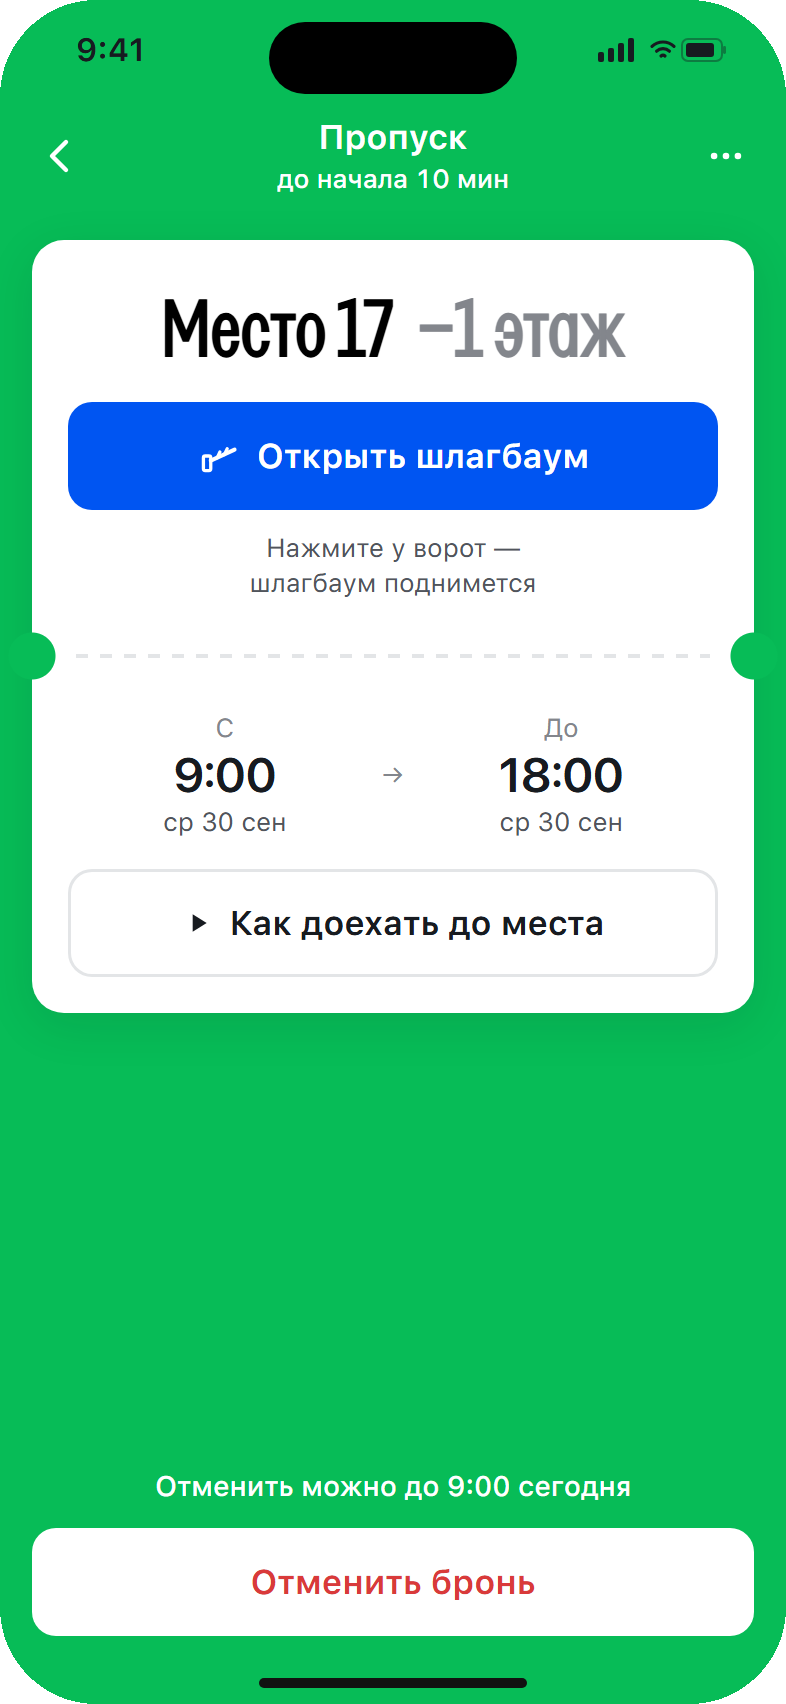
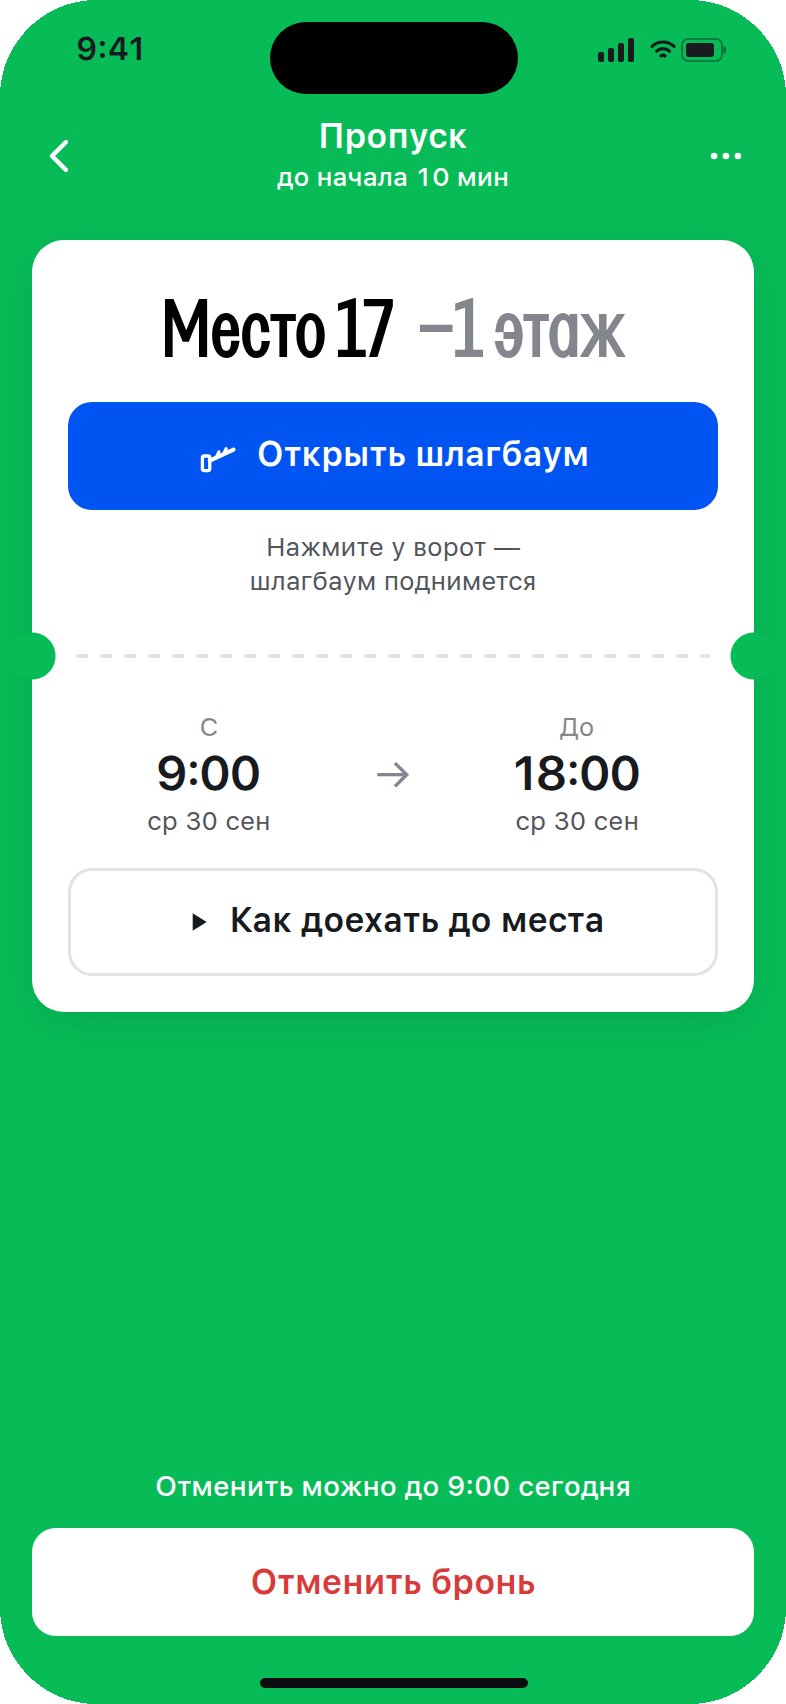
Refine ticket time display and arrow styling (#1)
* fix(ticket): выровнять блок времени в пропуске и обновить кадры кейса

Правило .tk-times span перебивало .tk-arrow: стрелка была 13px вместо 20.
Подписи «С»/«До» теперь по центру над временем. Кадры пропуска на
странице кейса пересняты с прототипа.

Claude-Session: https://claude.ai/code/session_0139vpd9aW6UCkXTQQZg3tMX

* feat(case): черновик и финал — одним кадром со шторкой-слайдером

Три пары «Черновик → финал» на странице кейса теперь сравниваются
в одном телефоне: ручку тянут мышью или пальцем, тап по кадру
переносит её, стрелки на клавиатуре двигают по 5%. Ручка — как
у сравнения тёмной и светлой темы выше на странице.

Claude-Session: https://claude.ai/code/session_0139vpd9aW6UCkXTQQZg3tMX

---------

diff --git a/public/research/index.html b/public/research/index.html
@@ -131,13 +131,20 @@
   /* Черновик → финал: пары кадров на тёмной подложке, как слайды */
   .pairs { max-width: var(--wide); margin: 28px auto 0; padding: 0 20px; display: grid; gap: 48px; }
   .pair { margin: 0; }
-  .pair-shots { display: grid; grid-template-columns: 1fr 1fr; gap: 20px; padding: 28px 28px 20px; background: var(--band); border-radius: 8px; }
-  .pair-shot { display: flex; flex-direction: column; align-items: center; gap: 12px; }
-  .pair-shot img { width: 100%; max-width: 300px; height: auto; }
-  .pair-shot span { font-size: 13.5px; color: rgba(255, 255, 255, 0.62); }
+  /* Сравнение: оба кадра в одном телефоне, слева от ручки черновик, справа финал */
+  .pair-shots { display: flex; flex-direction: column; align-items: center; gap: 12px; padding: 28px 28px 20px; background: var(--band); border-radius: 8px; }
+  .pcmp { --x: 50%; position: relative; width: 100%; max-width: 300px; aspect-ratio: 723 / 1568; touch-action: pan-y; user-select: none; -webkit-user-select: none; cursor: ew-resize; }
+  .pcmp img { position: absolute; inset: 0; width: 100%; height: 100%; pointer-events: none; -webkit-user-drag: none; }
+  .pcmp-was { clip-path: inset(0 calc(100% - var(--x)) 0 0); }
+  .pcmp-bar { position: absolute; top: 0; bottom: 0; left: var(--x); width: 2px; margin-left: -1px; background: #fff; box-shadow: 0 0 0 1px rgba(0, 0, 0, 0.12); pointer-events: none; }
+  .pcmp-knob { position: absolute; top: 50%; left: var(--x); width: 42px; height: 42px; margin: -21px 0 0 -21px; border: 0; border-radius: 50%; background: #fff; color: var(--text); box-shadow: 0 4px 16px rgba(0, 0, 0, 0.3); display: grid; place-items: center; cursor: ew-resize; padding: 0; font: 600 16px/1 inherit; letter-spacing: 2px; }
+  .pcmp-knob:focus-visible { outline: 2px solid var(--volt); outline-offset: 3px; }
+  .pcmp-labels { width: 100%; max-width: 300px; display: flex; justify-content: space-between; font-size: 13.5px; color: rgba(255, 255, 255, 0.62); }
+  .pcmp-labels span { transition: color .2s; }
+  .pcmp-labels span.on { color: #fff; }
   .pair figcaption { max-width: var(--col); margin: 20px auto 0; }
   .pair h4 { font-size: 16px; line-height: 1.35; font-weight: 600; margin: 0 0 8px; }
-  @media (max-width: 720px) { .pairs { padding: 0 12px; gap: 36px; } .pair-shots { gap: 10px; padding: 16px 12px 12px; } .pair figcaption { padding: 0 8px; } }
+  @media (max-width: 720px) { .pairs { padding: 0 12px; gap: 36px; } .pair-shots { padding: 16px 12px 12px; } .pair figcaption { padding: 0 8px; } }
 
   /* Таблицы: ширина как у кадров, колонки и внешняя рамка */
   .tbl { max-width: var(--wide); margin: 24px auto 0; padding: 0 20px; overflow-x: auto; }
@@ -552,8 +559,13 @@
   <div class="pairs" id="pairs">
     <figure class="pair">
       <div class="pair-shots">
-        <div class="pair-shot"><img src="img/ui/pair-plan-was.png" alt="Черновик плана: плашка с датой и временем сверху, стрелки на проездах, кнопка на всю ширину" loading="lazy" width="723" height="1568"><span>Черновик</span></div>
-        <div class="pair-shot"><img src="img/ui/pair-plan-now.png" alt="Финал плана: время у кнопки в шторке, этажи внизу карты, тонкая линия пути" loading="lazy" width="723" height="1568"><span>Финал</span></div>
+        <div class="pcmp">
+          <img class="pcmp-now" src="img/ui/pair-plan-now.png" alt="Финал плана: время у кнопки в шторке, этажи внизу карты, тонкая линия пути" loading="lazy" width="723" height="1568">
+          <img class="pcmp-was" src="img/ui/pair-plan-was.png" alt="Черновик плана: плашка с датой и временем сверху, стрелки на проездах, кнопка на всю ширину" loading="lazy" width="723" height="1568">
+          <span class="pcmp-bar" aria-hidden="true"></span>
+          <button type="button" class="pcmp-knob" role="slider" aria-label="Черновик или финал" aria-valuemin="0" aria-valuemax="100" aria-valuenow="50" aria-valuetext="Поровну"><span aria-hidden="true">‹ ›</span></button>
+        </div>
+        <div class="pcmp-labels" aria-hidden="true"><span>Черновик</span><span>Финал</span></div>
       </div>
       <figcaption>
         <h4>План</h4>
@@ -567,8 +579,13 @@
     </figure>
     <figure class="pair">
       <div class="pair-shots">
-        <div class="pair-shot"><img src="img/ui/pair-time-was.png" alt="Черновик шторки даты и времени: график без подписей" loading="lazy" width="723" height="1568"><span>Черновик</span></div>
-        <div class="pair-shot"><img src="img/ui/pair-time-now.png" alt="Финал шторки даты и времени: у графика подпись, выбранные часы на подложке с числом мест" loading="lazy" width="723" height="1568"><span>Финал</span></div>
+        <div class="pcmp">
+          <img class="pcmp-now" src="img/ui/pair-time-now.png" alt="Финал шторки даты и времени: у графика подпись, выбранные часы на подложке с числом мест" loading="lazy" width="723" height="1568">
+          <img class="pcmp-was" src="img/ui/pair-time-was.png" alt="Черновик шторки даты и времени: график без подписей" loading="lazy" width="723" height="1568">
+          <span class="pcmp-bar" aria-hidden="true"></span>
+          <button type="button" class="pcmp-knob" role="slider" aria-label="Черновик или финал" aria-valuemin="0" aria-valuemax="100" aria-valuenow="50" aria-valuetext="Поровну"><span aria-hidden="true">‹ ›</span></button>
+        </div>
+        <div class="pcmp-labels" aria-hidden="true"><span>Черновик</span><span>Финал</span></div>
       </div>
       <figcaption>
         <h4>Дата и время</h4>
@@ -581,8 +598,13 @@
     </figure>
     <figure class="pair">
       <div class="pair-shots">
-        <div class="pair-shot"><img src="img/ui/pair-ticket-was.png" alt="Черновик пропуска: зелёная только шапка, маленький QR, отмена сразу под карточкой" loading="lazy" width="723" height="1568"><span>Черновик</span></div>
-        <div class="pair-shot"><img src="img/ui/pair-ticket-now.png" alt="Финал пропуска: весь экран зелёный, крупный QR, билет с линией отрыва, отмена внизу" loading="lazy" width="723" height="1568"><span>Финал</span></div>
+        <div class="pcmp">
+          <img class="pcmp-now" src="img/ui/pair-ticket-now.png" alt="Финал пропуска: весь экран зелёный, крупный QR, билет с линией отрыва, отмена внизу" loading="lazy" width="723" height="1568">
+          <img class="pcmp-was" src="img/ui/pair-ticket-was.png" alt="Черновик пропуска: зелёная только шапка, маленький QR, отмена сразу под карточкой" loading="lazy" width="723" height="1568">
+          <span class="pcmp-bar" aria-hidden="true"></span>
+          <button type="button" class="pcmp-knob" role="slider" aria-label="Черновик или финал" aria-valuemin="0" aria-valuemax="100" aria-valuenow="50" aria-valuetext="Поровну"><span aria-hidden="true">‹ ›</span></button>
+        </div>
+        <div class="pcmp-labels" aria-hidden="true"><span>Черновик</span><span>Финал</span></div>
       </div>
       <figcaption>
         <h4>Пропуск</h4>
@@ -818,6 +840,40 @@ document.querySelectorAll('.media').forEach((box) => {
     a.addEventListener('play', () => { w.classList.add('started', 'on'); b.setAttribute('aria-label', 'Пауза') })
     a.addEventListener('pause', () => { w.classList.remove('on'); b.setAttribute('aria-label', 'Включить музыку') })
   })()
+</script>
+<script>
+  // Сравнение черновика и финала: тянуть ручку, тап по кадру, стрелки на клавиатуре
+  document.querySelectorAll('.pcmp').forEach(cmp => {
+    const knob = cmp.querySelector('.pcmp-knob')
+    const labels = cmp.nextElementSibling.children
+    const set = v => {
+      v = Math.max(0, Math.min(100, v))
+      cmp.style.setProperty('--x', v + '%')
+      knob.setAttribute('aria-valuenow', Math.round(v))
+      knob.setAttribute('aria-valuetext', v > 60 ? 'Больше черновика' : v < 40 ? 'Больше финала' : 'Поровну')
+      labels[0].classList.toggle('on', v > 60)
+      labels[1].classList.toggle('on', v < 40)
+      cmp.dataset.v = v
+    }
+    const at = e => { const r = cmp.getBoundingClientRect(); set((e.clientX - r.left) / r.width * 100) }
+    cmp.addEventListener('pointerdown', e => {
+      if (e.button) return
+      at(e); cmp.setPointerCapture(e.pointerId)
+      const move = ev => at(ev)
+      const up = () => { cmp.removeEventListener('pointermove', move); cmp.removeEventListener('pointerup', up); cmp.removeEventListener('pointercancel', up) }
+      cmp.addEventListener('pointermove', move); cmp.addEventListener('pointerup', up); cmp.addEventListener('pointercancel', up)
+    })
+    knob.addEventListener('keydown', e => {
+      const v = +cmp.dataset.v
+      const d = { ArrowLeft: -5, ArrowDown: -5, ArrowRight: 5, ArrowUp: 5, PageDown: -25, PageUp: 25 }[e.key]
+      if (d !== undefined) set(v + d)
+      else if (e.key === 'Home') set(0)
+      else if (e.key === 'End') set(100)
+      else return
+      e.preventDefault()
+    })
+    set(50)
+  })
 </script>
 </body>
 </html>

diff --git a/src/ui/ui.css b/src/ui/ui.css
@@ -231,10 +231,10 @@
 .entry { display: flex; flex-direction: column; align-items: center; gap: 10px; }
 .entry .btn { width: 100%; }
 .tk-times { display: grid; grid-template-columns: 1fr auto 1fr; align-items: center; text-align: center; margin-bottom: 16px; }
-.tk-times span { display: block; font-size: 13px; color: var(--text-muted); }
+.tk-times > div > span { display: block; font-size: 13px; color: var(--text-muted); }
 .tk-times b { display: block; font: 600 24px/1.2 var(--font-display); margin-top: 2px; }
 .tk-times small { display: block; font-size: 13px; color: var(--text-secondary); margin-top: 1px; }
-.tk-arrow { color: var(--text-muted); font-size: 20px; }
+.tk-arrow { padding: 0 12px; font: 400 22px/1 var(--font-text); color: var(--text-muted); }
 .tk-card .btn.secondary svg { color: var(--text); }
 /* Отмена — внизу экрана, у большого пальца и подальше от пропуска: её не нажмут случайно у ворот */
 .tk-cancel { margin-top: auto; padding: 22px 16px 0; text-align: center; }
